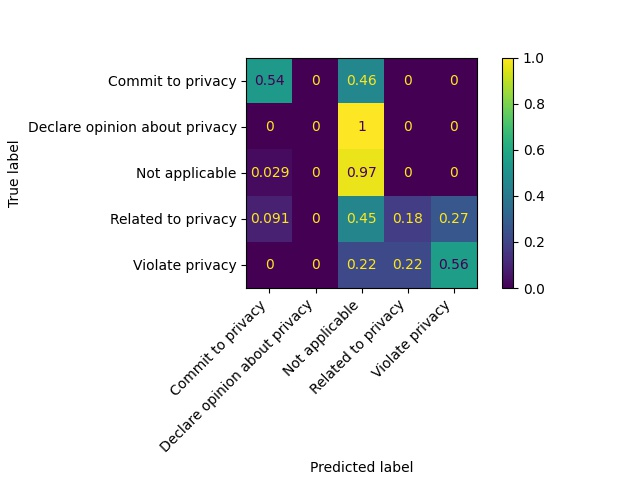
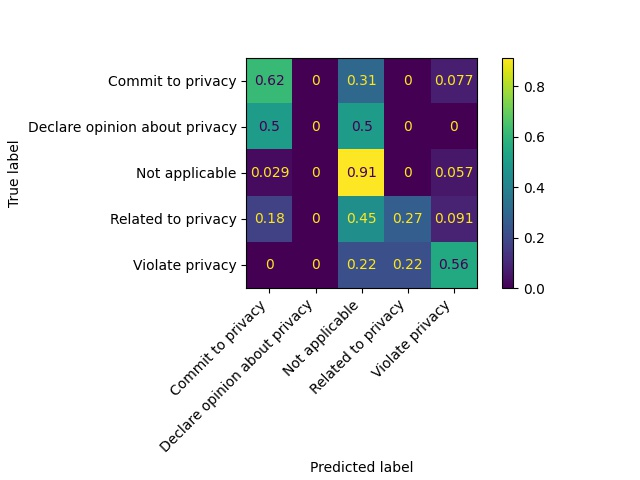
sgd dev set 10/10 seed 1111111

diff --git a/AIclassifier.py b/AIclassifier.py
@@ -238,7 +238,7 @@ test_labels_primary = create_labels_array(labels_test)
 #lin_reg = LinearRegression() # it is not discrete!!
 # RIDGE REGRESSION CLASSIFIER
 #ridge_classifier = RidgeClassifier()
-sgd_classifier = make_pipeline(StandardScaler(),SGDClassifier(max_iter=1000, tol=1e-3))
+sgd_classifier = make_pipeline(StandardScaler(),SGDClassifier(max_iter=1000, tol=1e-3, random_state=1111111))
 
 # FLAG - CHECK WHICH CONFIGURATIONS SHOULD BE HERE - checked
 
